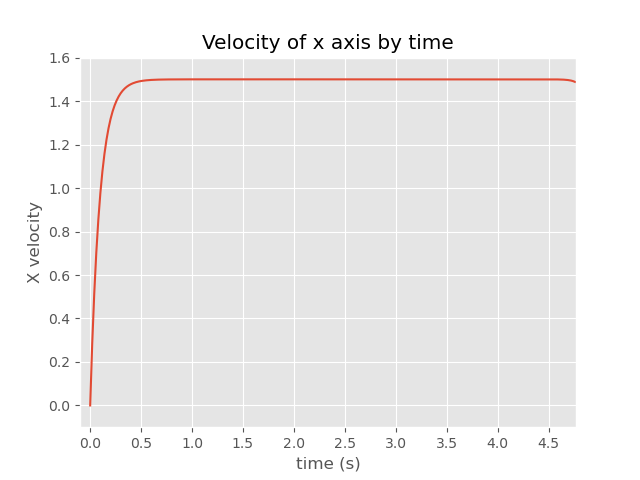
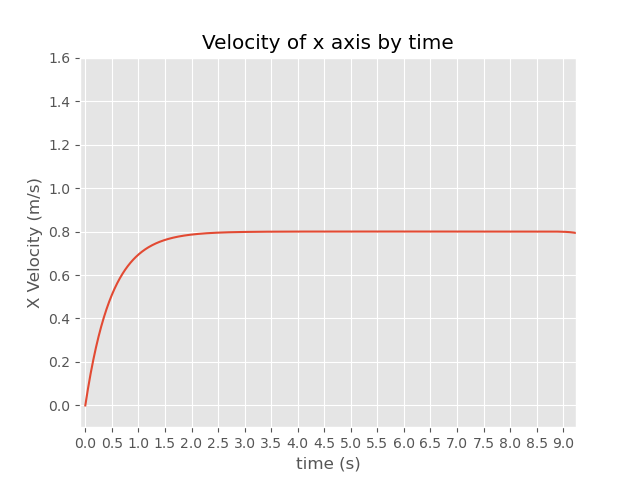
finished 1

diff --git a/main.py b/main.py
@@ -12,7 +12,7 @@ def ex1():
         print("--------------------------------------------")
         print("1.a:")
 
-        a = Simulation(num_individuals=1, num_steps=9000, v_des=1.5, random_loc=False, radii=0.1)
+        a = Simulation(num_individuals=1, num_steps=9000, random_loc=False)
         a.run()
         print("evacuation time: " + str(a.evacuation_time))
         # x velocity graph:
@@ -22,9 +22,9 @@ def ex1():
         plt.plot(axis_time, vel_x)
         plt.xticks(axis_time[::50])
         plt.xlabel("time (s)")
-        plt.ylabel("X velocity")
+        plt.ylabel("X Velocity (m/s)")
         plt.ylim(0-0.1, 1.6)
-        plt.xlim(0-0.1, (max_step-1)*0.01)
+        plt.xlim(0-0.1, (max_step-2)*0.01)
         plt.title("Velocity of x axis by time")
         plt.savefig('./out/Vx_to_time.png')
 
@@ -35,9 +35,9 @@ def ex1():
         plt.plot(axis_time, vel_y)
         plt.xticks(axis_time[::50])
         plt.ylim(-5, 5)
-        plt.xlim(0, (max_step-1)*0.01)
+        plt.xlim(0, (max_step-2)*0.01)
         plt.xlabel("time (s)")
-        plt.ylabel("Y velocity")
+        plt.ylabel("Y Velocity (m/s)")
         plt.title("Velocity of y axis by time")
         plt.savefig('./out/Vy_to_time.png')
 
@@ -46,11 +46,11 @@ def ex1():
         y_vals = a.y[1, 0, :][:max_step-1]
         x_vals = a.y[0, 0, :][:max_step-1]
         plt.plot(x_vals, y_vals)
-        plt.xlabel("x coordinate")
-        plt.ylabel("y coordinate")
+        plt.xlabel("X Coordinate (m)")
+        plt.ylabel("Y Coordinate (m)")
         plt.xlim(0, 14.5)
         plt.ylim(0, 15)
-        plt.title("Locations")
+        plt.title("Location")
         plt.savefig('./out/y_to_x_locations.png')
 
     def ex1b():
@@ -59,20 +59,20 @@ def ex1():
         lst_evac = []
         lst_locations = []
         for i in range(200):
-            a = Simulation(num_individuals=1, num_steps=9000, v_des=1.5, random_loc=True, radii=0.2)
+            a = Simulation(num_individuals=1, num_steps=9000, random_loc=True)
             a.run()
             lst_evac.append(a.evacuation_time)
             lst_locations.append(a.y)
 
         # print longest evacuation time:
-        print("Longest evacuation time: " + str(max(lst_evac)))
+        print("Longest evacuation time: " + str(max(lst_evac)) + "s")
 
         # plot evacuation time distribution:
         plt.figure()
         fig, axs = plt.subplots(1, 1, tight_layout=True)
-        axs.hist(lst_evac, bins=35, density=True, facecolor='g', alpha=0.75)
+        axs.hist(lst_evac, bins=30, density=True, facecolor='g', alpha=0.75)
         # Now we format the y-axis to display percentage
-        plt.xlabel("Evacuation Time")
+        plt.xlabel("Evacuation Time (s)")
         plt.ylabel("Probability")
         plt.title("Evacuation Time Distribution")
         plt.savefig('./out/Evacuation_Time_hist.png')
@@ -125,65 +125,63 @@ def ex2():
         simulation_2a200 = Simulation(num_individuals=200, num_steps=9000, random_loc=True)
         simulation_2a200.run()
         print(f'Evacuation Time with 200 agents: {simulation_2a200.evacuation_time}s')
-        print(simulation_2a200.y[:, :, int(simulation_2a200.evacuation_time / 0.01) - 1])
+        # print(simulation_2a200.y[:, :, int(simulation_2a200.evacuation_time / 0.01) - 1])
 
     def ex2b():
         # 2.b:
         print("2.b:")
         print("--------------------------------------------")
-        simulation_v_1_5 = Simulation(num_individuals=20, num_steps=9000, random_loc=True, v_des=1.5)
-        simulation_v_1_5.run()
-        print(f'Evacuation Time with 20 agents and desired speed of 1.5: {simulation_v_1_5.evacuation_time}s')
+        plt.style.use('ggplot')
 
-        simulation_v_2 = Simulation(num_individuals=20, num_steps=9000, random_loc=True, v_des=2)
-        simulation_v_2.run()
-        print(f'Evacuation Time with 20 agents and desired speed of 2: {simulation_v_2.evacuation_time}s')
+        evacuation_time = []
+        desired_velocity = np.arange(0.5, 5, 0.2)
+        for v_des in desired_velocity:
+            print(f'run with {v_des} velocity')
+            simulation = Simulation(num_individuals=50, num_steps=9000, random_loc=True, v_des=v_des, radii=0.1)
+            simulation.run()
+            evacuation_time.append(simulation.evacuation_time)
 
-        simulation_v_3 = Simulation(num_individuals=20, num_steps=9000, random_loc=True, v_des=3)
-        simulation_v_3.run()
-        print(f'Evacuation Time with 20 agents and desired speed of 3: {simulation_v_3.evacuation_time}s')
-
-        simulation_v_0_8 = Simulation(num_individuals=20, num_steps=9000, random_loc=True, v_des=0.8)
-        simulation_v_0_8.run()
-        print(f'Evacuation Time with 20 agents and desired speed of 0.8: {simulation_v_0_8.evacuation_time}s')
-
-        simulation_v_0_5 = Simulation(num_individuals=20, num_steps=9000, random_loc=True, v_des=0.5)
-        simulation_v_0_5.run()
-        print(f'Evacuation Time with 20 agents and desired speed of 0.5: {simulation_v_0_5.evacuation_time}s')
+        plt.figure()
+        plt.plot(desired_velocity, evacuation_time)
+        plt.xlabel("Desired Velocity (m/s)")
+        plt.ylabel("Evacuation Time (s)")
+        plt.xlim(0, 5.5)
+        plt.ylim(0, 91)
+        plt.title("Evacuation Time to Desired Velocity for 50 People")
+        plt.savefig('./out/Evacuation_time_to_desired_velocity.png')
 
     def ex2c():
         # 2.c:
         print("2.c:")
         print("--------------------------------------------")
-        simulation_20 = Simulation(num_individuals=20, num_steps=9000, random_loc=True)
-        simulation_20.set_elders_conditions()
-        simulation_20.run()
-        print(f'Evacuation Time with 20 agents while 4 are elders: {simulation_20.evacuation_time}s')
+        plt.style.use('ggplot')
 
-        simulation_50 = Simulation(num_individuals=50, num_steps=9000, random_loc=True)
-        simulation_50.set_elders_conditions()
-        simulation_50.run()
-        print(f'Evacuation Time with 50 agents while 10 are elders: {simulation_50.evacuation_time}s')
+        plt.figure(figsize=(10, 8))
+        for num_people in [25, 50, 75, 100, 125, 150]:
+            evacuation_time = []
+            desired_velocity = np.arange(0.5, 5, 0.2)
+            for v_des in desired_velocity:
+                print(f'run with {num_people} people and {v_des} velocity')
+                simulation = Simulation(num_individuals=num_people, num_steps=9000, random_loc=True, v_des=v_des, radii=0.1)
+                simulation.set_elders_conditions()
+                simulation.run()
+                evacuation_time.append(simulation.evacuation_time)
 
-        simulation_75 = Simulation(num_individuals=75, num_steps=9000, random_loc=True)
-        simulation_75.set_elders_conditions()
-        simulation_75.run()
-        print(f'Evacuation Time with 75 agents while 15 are elders: {simulation_75.evacuation_time}s')
+            plt.plot(desired_velocity, evacuation_time, label=f"{num_people} People")
 
-        simulation_100 = Simulation(num_individuals=100, num_steps=9000, random_loc=True)
-        simulation_100.set_elders_conditions()
-        simulation_100.run()
-        print(f'Evacuation Time with 100 agents while 20 are elders: {simulation_100.evacuation_time}s')
 
-        simulation_150 = Simulation(num_individuals=150, num_steps=9000, random_loc=True)
-        simulation_150.set_elders_conditions()
-        simulation_150.run()
-        print(f'Evacuation Time with 150 agents while 30 are elders: {simulation_150.evacuation_time}s')
+        plt.xlabel("Desired Velocity (m/s)")
+        plt.ylabel("Evacuation Time (s)")
+        plt.xlim(0, 5.5)
+        plt.ylim(0, 91)
+        plt.legend()
+        plt.title("Evacuation Time to Desired Velocity for 50 People When 10 are Elders")
+        plt.savefig('./out/Evacuation_time_to_desired_velocity_elders.png')
 
 
     ex2a()
-    ex2b()
-    ex2c()
+    # ex2b()
+    # ex2c()
 
 def ex3():
 
@@ -289,7 +287,8 @@ def second_3():
 
     agents = 25
     radii = 0.2
-    simulation = Simulation(num_individuals=agents, num_steps=9000, radii=radii, two_door_room=False, random_loc=True, is_distributed=True)
+    simulation = Simulation(num_individuals=agents, num_steps=9000, radii=radii, two_door_room=False, random_loc=True,
+                            is_distributed=True)
     simulation.run()
     print(f'           Evacuation time: {simulation.evacuation_time}s')
     print(f'{agents} Agents: ')
@@ -381,6 +380,10 @@ def second_3():
 
 if __name__ == '__main__':
     # ex1()
-    # ex2()
+    ex2()
     # ex3()
-    second_3()
+    # second_3()
+
+    simulation_2a200 = Simulation(num_individuals=200, num_steps=9000, random_loc=True)
+    simulation_2a200.run()
+    print(f'Evacuation Time with 200 agents: {simulation_2a200.evacuation_time}s')

diff --git a/entity.py b/entity.py
@@ -2,7 +2,7 @@ import numpy as np
 
 
 class Entity:
-    def __init__(self, room, r, v, m=80, v_0=1.5, radii=1, B=0.08, A=2*10**3, tau=0.5, k=1.2*10**5, kap=2.4*10**5):
+    def __init__(self, room, r, v, m=80, v_0=0.8, radii=0.2, B=0.08, A=2*10**3, tau=0.5, k=1.2*10**5, kap=2.4*10**5):
         # Individual Entity Parameters
 
         # weight
@@ -149,7 +149,7 @@ class Entity:
 
                 distance = np.min(np.array([right_distance, left_distance]))
 
-        if distance < 0.5:
+        if distance < 0.6:
             # set entity to be escaped
             self.set_escaped()
             return True
@@ -201,23 +201,41 @@ class Entity:
 
     def wall_distance(self, wall):
 
-        # need to find wall closest coordinates
-        wall_p1 = wall[0, :]
-        wall_p2 = wall[1, :]
-        agent_point = self.r
+        # # need to find wall closest coordinates
+        # wall_p1 = wall[0, :]
+        # wall_p2 = wall[1, :]
+        # agent_point = self.r
+        #
+        # wall_vec = wall_p2 - wall_p1
+        # det = np.sum(wall_vec**2)
+        # a = np.sum(wall_vec * (agent_point - wall_p1)) / det
+        # wall_closest_point = wall_p1 + a * wall_vec
+        #
+        # d_iW = np.linalg.norm(agent_point - wall_closest_point)
+        # n_iW = (self.r - wall_closest_point) / d_iW
+        # t_iW = np.array([-n_iW[1], n_iW[0]])
+        #
+        # return d_iW, n_iW, t_iW
 
-        wall_vec = wall_p2 - wall_p1
-        det = np.sum(wall_vec**2)
-        a = np.sum(wall_vec * (agent_point - wall_p1)) / det
-        wall_closest_point = wall_p1 + a * wall_vec
+        temp_wall = wall
+        line_vec = temp_wall[1, :] - temp_wall[0, :]
+        pnt_vec = self.r - temp_wall[0, :]
+        line_len = np.linalg.norm(line_vec)
+        line_unitvec = line_vec / line_len
+        pnt_vec_scaled = pnt_vec / line_len
+        temp = line_unitvec.dot(pnt_vec_scaled)
+        if temp < 0.0:
+            temp = 0.0
+        elif temp > 1.0:
+            temp = 1.0
+        nearest = line_vec * temp
+        dist = pnt_vec - nearest
+        nearest = nearest + temp_wall[0, :]
+        distance = np.linalg.norm(dist)
+        n = dist / distance
+        t = np.array([-n[1], n[0]])
 
-        d_iW = np.linalg.norm(agent_point - wall_closest_point)
-        n_iW = (self.r - wall_closest_point) / d_iW
-        t_iW = np.array([-n_iW[1], n_iW[0]])
-
-        return d_iW, n_iW, t_iW
-
-
+        return distance, n, t
 
     def acceleration_calc(self):
         self.calculate_e_0()

diff --git a/simulation.py b/simulation.py
@@ -13,7 +13,7 @@ them with with the function "Show"'''
 
 
 class Simulation:
-    def __init__(self, num_individuals, num_steps, radii=0.2, tau=0.1, v_des=1.5, two_door_room=False, mass=80,
+    def __init__(self, num_individuals, num_steps, radii=0.2, tau=0.5, v_des=0.8, two_door_room=False, mass=80,
                  room_size=(15, 15), random_loc=True, is_distributed=False):
 
         self.evacuation_time = 0
@@ -44,10 +44,10 @@ class Simulation:
             else:
                 if i < num_individuals / 2:
                     mass_sample = np.random.normal(loc=78, scale=13.15)
-                    velocity_sample = np.random.normal(loc=2.86, scale=0.75)
+                    velocity_sample = np.random.normal(loc=1.1, scale=0.25)
                 else:
                     mass_sample = np.random.normal(loc=65.74, scale=11.34)
-                    velocity_sample = np.random.normal(loc=2.5, scale=0.6)
+                    velocity_sample = np.random.normal(loc=0.9, scale=0.25)
                 self.entities.append(Entity(self.room, self.y[:, i, 0], self.v[:, i, 0], mass_sample, velocity_sample, radii, tau=tau))
         self.entities = np.array(self.entities)
 
@@ -116,6 +116,9 @@ class Simulation:
         for k in range(self.num_steps-1):
             if self.agents_escaped == len(self.entities):
                 break
+            # print every 10 seconds
+            # if k % 1000 == 0:
+            #     print(k)
             for index, entity in enumerate(self.entities):
                 if not entity.escaped:
                     dv_dt = entity.acceleration_calc()
